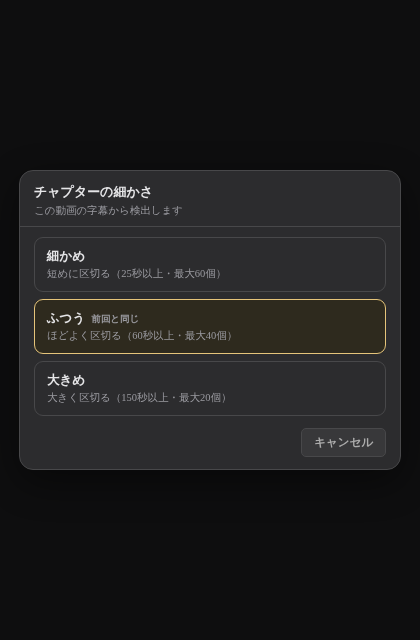
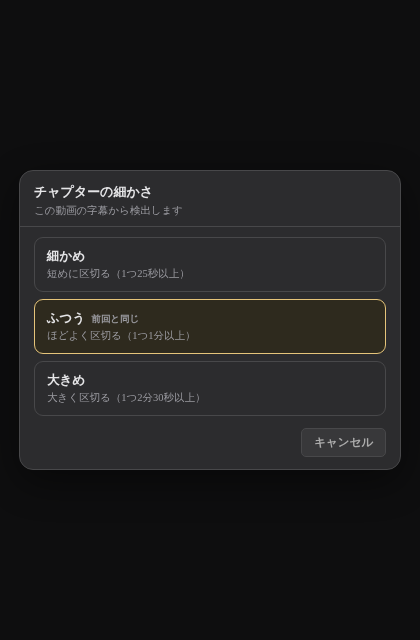
チャプターの細かさ: 尺と無関係な「最大◯個」をやめる (v52.725)
maxCount は暴走を止める安全弁でしかないのに、それをそのまま
「最大60個」と書いていた。5分の動画に最大60個は作れないので嘘になる。

実際に作れる数は動画の長さで決まる。表示もそれに合わせた。
  上限 = min(maxCount, floor(尺 ÷ 1つあたりの最短秒数))
  例) 5分の動画  → 細かめ12個 / ふつう5個  / 大きめ2個
      54分の動画 → 細かめ60個 / ふつう40個 / 大きめ20個（安全弁が効く）
尺が取れない時は個数を出さない（言い切らない）。

あわせて、丸めで嘘になる表示も直した:
- 150秒を「3分以上」と書いていた（切り上げ）→「2分30秒以上」
- 54分33秒を「55分」と書いていた（切り上げ）→「54分」
どちらも実際より大きく見せる方向だったので、切り捨てに統一した。

見出しにも動画の長さを出して、何を基準にした個数なのかを分かるようにした。

i18n: 語・最短の長さ・個数がそれぞれ変わる合成文なので AUTO_PATTERNS で対応。
括弧内の尺（「54分」「1時間6分」）も英語にする（そこだけ日本語が残っていた）。

■ 検証
実物のダイアログをブラウザで開き、5分 / 54分 / 尺不明 の3通りで
各行の文言と個数、見出しの尺表記を実測して確認（6項目）。
i18n はエンジンを起動して、実際に画面へ出る合成文が英訳されることを12件確認。
このi18n検証で尺が訳されずに残る漏れを見つけて直した。

Claude-Session: https://claude.ai/code/session_01WVH8Le74EeJ8zMGr3BxDTT

Changed region(s): [[0.3095, 0.5, 0.5571, 0.5312], [0.2786, 0.4062, 0.5262, 0.4375], [0.3095, 0.5938, 0.5262, 0.625]]

diff --git a/js/vpanel.js b/js/vpanel.js
@@ -3965,25 +3965,37 @@ function _chapImgToBase64(file) {
 // 貼り付けを選んだ時に一覧の入力画面が出るのと同じ位置づけ。
 // 細かさは検出にしか効かないので、1枚目に混ぜず、ここで初めて聞く。
 // resolve は 'fine' | 'normal' | 'coarse' / キャンセルは null
-function _chapGrainDialog(via) {
+function _chapGrainDialog(via, duration) {
   return new Promise(resolve => {
     document.getElementById('vp-chap-grain-bg')?.remove();
     const cur = _chapGrainKey();
+    // 実際に作れる数は動画の長さで決まる。maxCount は安全弁にすぎないので、
+    // 尺と無関係に「最大◯個」とだけ書くと、短い動画では嘘になる
+    // （5分の動画に「最大60個」など）。長さが分かる時はそちらから上限を出す。
+    const dur = Number(duration) || 0;
+    const capOf = g => (dur > 0 ? Math.max(1, Math.min(g.maxCount, Math.floor(dur / g.minSec))) : g.maxCount);
+    // 尺も切り上げない（54分33秒を「55分」と書かない）
+    const durLabel = dur > 0
+      ? (dur >= 3600 ? `${Math.floor(dur / 3600)}時間${Math.floor((dur % 3600) / 60)}分` : `${Math.floor(dur / 60)}分`)
+      : '';
     const bg = document.createElement('div');
     bg.id = 'vp-chap-grain-bg';
     bg.style.cssText = 'position:fixed;inset:0;z-index:10050;background:rgba(0,0,0,.5);display:flex;align-items:center;justify-content:center;padding:16px';
-    const desc = {
-      fine:   `短めに区切る（${CHAP_GRAINS.fine.minSec}秒以上・最大${CHAP_GRAINS.fine.maxCount}個）`,
-      normal: `ほどよく区切る（${CHAP_GRAINS.normal.minSec}秒以上・最大${CHAP_GRAINS.normal.maxCount}個）`,
-      coarse: `大きく区切る（${CHAP_GRAINS.coarse.minSec}秒以上・最大${CHAP_GRAINS.coarse.maxCount}個）`,
+    const word = { fine: '短めに区切る', normal: 'ほどよく区切る', coarse: '大きく区切る' };
+    // 150秒を「3分」と丸めると嘘になる。割り切れる時だけ分で書く。
+    const secLabel = s => s < 60 ? `${s}秒`
+      : (s % 60 === 0 ? `${s / 60}分` : `${Math.floor(s / 60)}分${s % 60}秒`);
+    const desc = k => {
+      const g = CHAP_GRAINS[k];
+      return `${word[k]}（1つ${secLabel(g.minSec)}以上）` + (dur > 0 ? ` · この動画なら最大${capOf(g)}個` : '');
     };
     bg.innerHTML = `
       <div style="background:var(--surface,#222);border:1.5px solid var(--border,#444);border-radius:14px;box-shadow:0 12px 40px rgba(0,0,0,.45);
                   width:100%;max-width:380px;display:flex;flex-direction:column;overflow:hidden">
         <div style="padding:12px 14px 8px;border-bottom:0.5px solid var(--border,#444)">
           <div style="font-size:13px;font-weight:700;color:var(--text,#eee)">チャプターの細かさ</div>
-          <div style="font-size:10.5px;color:var(--text3,#999);margin-top:3px">${
-            via === 'sub' ? 'この動画の字幕から検出します' : 'AIが動画を視聴して検出します'}</div>
+          <div id="vp-chap-grain-sub" style="font-size:10.5px;color:var(--text3,#999);margin-top:3px">${
+            via === 'sub' ? `この動画の字幕から検出します${durLabel ? `（${durLabel}）` : ""}` : `AIが動画を視聴して検出します${durLabel ? `（${durLabel}）` : ""}`}</div>
         </div>
         <div style="padding:10px 14px;display:flex;flex-direction:column;gap:7px">
           ${CHAP_GRAIN_KEYS.map(k => `
@@ -3993,7 +4005,7 @@ function _chapGrainDialog(via) {
                      background:${k === cur ? 'var(--gold-soft)' : 'transparent'};">
               <div style="font-size:12.5px;font-weight:700;color:var(--text,#eee)">${CHAP_GRAINS[k].label}${
                 k === cur ? '<span style="font-size:9.5px;font-weight:600;color:var(--text3,#999);margin-left:6px">前回と同じ</span>' : ''}</div>
-              <div style="font-size:10.5px;color:var(--text3,#999);margin-top:2px">${desc[k]}</div>
+              <div style="font-size:10.5px;color:var(--text3,#999);margin-top:2px">${desc(k)}</div>
             </button>`).join('')}
         </div>
         <div style="padding:2px 14px 12px;display:flex;justify-content:flex-end">
@@ -4429,9 +4441,12 @@ window.vpGenChapters = async function(id, preset) {
     const input = via === 'list' ? (preset?.input || await _chapListDialog()) : null;
     if (via === 'list' && !input) return { ok: false, skipped: true };
 
+    // 細かさの説明は動画の長さで変わるので、先に尺を出しておく
+    const duration = Number(v.duration) || (_gdFileId === fileId ? Number(_gdVideoEl?.duration) || 0 : 0);
+
     let pickedGrain = preset?.grain;
     if (!preset && via !== 'list') {
-      pickedGrain = await _chapGrainDialog(via);
+      pickedGrain = await _chapGrainDialog(via, duration);
       if (!pickedGrain) return { ok: false, skipped: true };
     }
 
@@ -4439,7 +4454,6 @@ window.vpGenChapters = async function(id, preset) {
     setBtn('⏳ 検出中…');
     const idToken   = await user.getIdToken();
     const ctxFields = { title: v.title || '', channel: v.ch || v.channel || '', playlist: v.pl || '' };
-    const duration  = Number(v.duration) || (_gdFileId === fileId ? Number(_gdVideoEl?.duration) || 0 : 0);
 
     // 字幕の文字起こしは「字幕から検出」と「表の位置合わせ」の両方で使う
     let cues = [], transcript = '', clipped = false;

diff --git a/js/i18n.js b/js/i18n.js
@@ -1625,9 +1625,6 @@
 
   // 数値テンプレート辞書（数字列を # に正規化したキー → # 入り英文）
   const TEMPLATE_AUTO = {
-    '短めに区切る（#秒以上・最大#個）':'Shorter segments (min #s, up to #)',
-    'ほどよく区切る（#秒以上・最大#個）':'Balanced segments (min #s, up to #)',
-    '大きく区切る（#秒以上・最大#個）':'Larger segments (min #s, up to #)',
     "▸ 関連動画 #本": "▸ # related videos",
     "書きました — 関連動画 #本": "Written — # related videos",
     "#件選択中": "# selected",
@@ -1807,7 +1804,27 @@
     "#本に追加": "Added to # videos","#本から除去": "Removed from # videos",
   };
 
+  // 「1時間6分」「54分」を英語表記へ。訳せない形はそのまま返す
+  const _wkDurEn = (d) => String(d)
+    .replace(/^(\d+)時間(\d+)分$/, '$1h $2m')
+    .replace(/^(\d+)時間$/, '$1h')
+    .replace(/^(\d+)分$/, '$1 min');
   const AUTO_PATTERNS = [
+    // ── チャプターの細かさ（語 + 最短の長さ + この動画での上限個数）──
+    // 「短めに区切る（1つ25秒以上） · この動画なら最大12個」のような合成文。
+    // 語と長さと個数がそれぞれ変わるので、まとめて1つの正規表現で受ける。
+    [/^(短めに|ほどよく|大きく)区切る（1つ(.+?)以上）(?: · この動画なら最大(\d+)個)?$/,
+      (m, word, span, cap) => {
+        const W = { '短めに': 'Shorter segments', 'ほどよく': 'Balanced segments', '大きく': 'Larger segments' }[word];
+        const sp = String(span)
+          .replace(/^(\d+)分(\d+)秒$/, '$1m$2s').replace(/^(\d+)分$/, '$1 min').replace(/^(\d+)秒$/, '$1s');
+        return `${W} (min ${sp} each)` + (cap ? ` · up to ${cap} in this video` : '');
+      }],
+    // 尺の「54分」「1時間6分」も英語にする（括弧の中だけ残ると混ざる）
+    [/^この動画の字幕から検出します(?:（(.+?)）)?$/,
+      (m, d) => "Detected from this video\u2019s subtitles" + (d ? ` (${_wkDurEn(d)})` : '')],
+    [/^AIが動画を視聴して検出します(?:（(.+?)）)?$/,
+      (m, d) => 'The AI watches the video to detect them' + (d ? ` (${_wkDurEn(d)})` : '')],
     // ── 自動チャプター（後ろの広いパターンに食われないよう先に置く）──
     // 「検出元 · $0.003」。検出元は静的辞書で引き、金額はそのまま残す
     [/^(.+?) · (\$[\d.]+)$/, (m, head, cost) => {

diff --git a/index.html b/index.html
@@ -15,7 +15,7 @@
 <link rel="icon" href="icons/favicon.svg" type="image/svg+xml">
 <link rel="icon" href="favicon.ico" sizes="48x48">
 <link rel="icon" href="icons/favicon-32.png" type="image/png" sizes="32x32">
-<title>WAZA KIMURA v52.724</title>
+<title>WAZA KIMURA v52.725</title>
 <script>
 // ── パフォーマンス計測（?perf=1 のときだけ表示） ──
 (function(){
